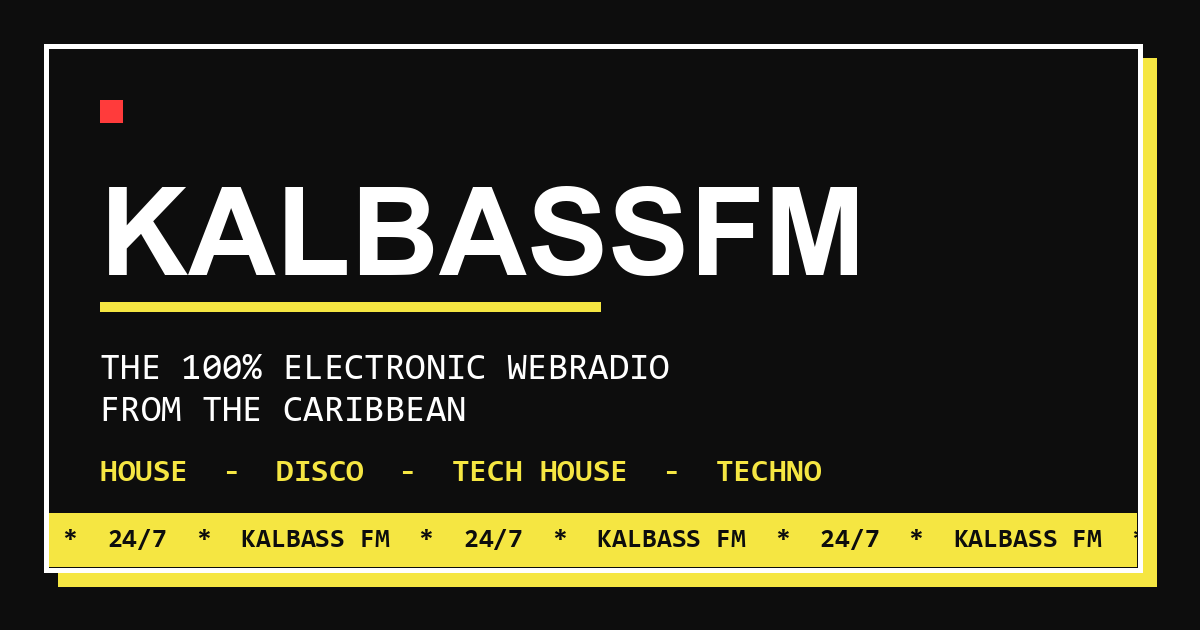
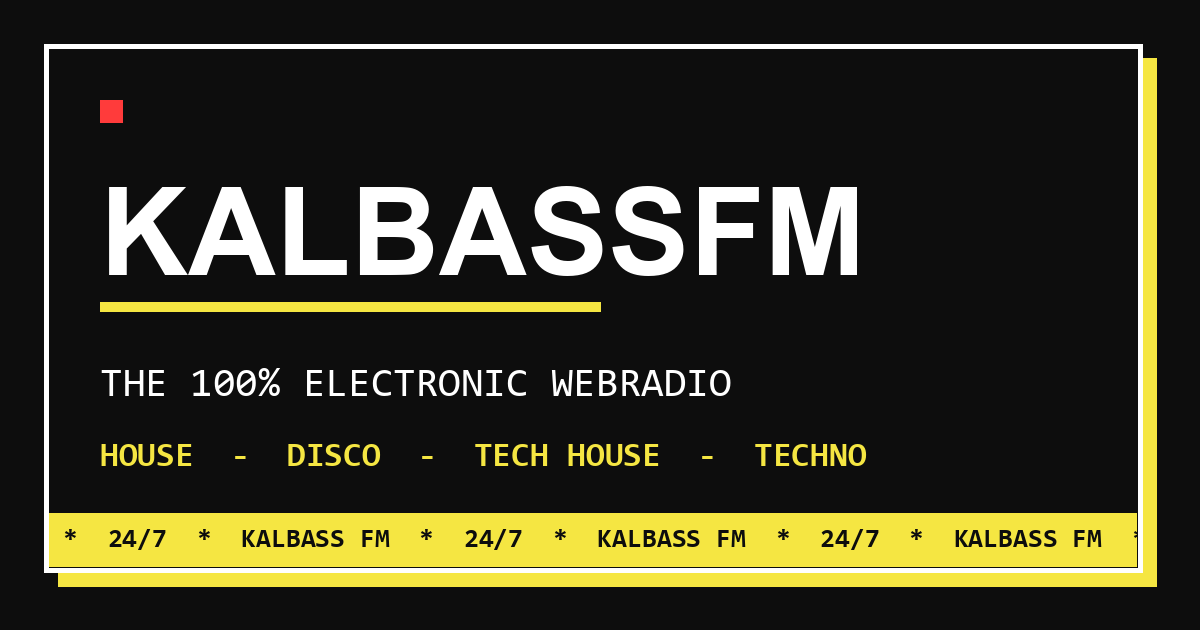
chore: retire les mentions d'origine geographique de la station
La station se presente desormais uniquement par sa musique. Touche le titre
de la page, la meta description, les cartes Open Graph / Twitter, le
manifest PWA, le libelle du pied de page, le texte de partage d'un morceau,
le repli Media Session, et le prompt systeme de /ask (le bot proposait des
messages "matching a light Caribbean tone").

og-image.png est refaite sans la ligne "FROM THE CARIBBEAN", avec les
espacements rebalances : une ligne d'accroche en moins laissait un vide sous
les genres. og:image et twitter:image passent en ?v=3 pour que les
plateformes re-scrapent.

Deux 🌴 subsistent volontairement dans index.html : le creneau "Trade Winds"
de la grille (13h-17h) et le palier de streak a 3 jours. Ni l'un ni l'autre
n'affirme d'ou emet la station, et renommer un creneau toucherait aussi les
playlists AzuraCast et la grille du README — c'est une decision separee.

diff --git a/index.html b/index.html
@@ -3,20 +3,20 @@
 <head>
   <meta charset="UTF-8">
   <meta name="viewport" content="width=device-width, initial-scale=1.0, viewport-fit=cover">
-  <title>KALBASSFM — Caribbean FM</title>
-  <meta name="description" content="KALBASS FM — the 100% electronic webradio from the Caribbean. House, disco, tech house, techno. 24/7.">
+  <title>KALBASSFM — Electronic Webradio</title>
+  <meta name="description" content="KALBASS FM — the 100% electronic webradio. House, disco, tech house, techno. 24/7.">
   <meta property="og:type" content="website">
   <meta property="og:site_name" content="KALBASS FM">
-  <meta property="og:title" content="KALBASS FM — The 100% electronic webradio from the Caribbean">
-  <meta property="og:description" content="House · Disco · Tech House · Techno — live 24/7. Press play. 🌴🎧">
+  <meta property="og:title" content="KALBASS FM — The 100% electronic webradio">
+  <meta property="og:description" content="House · Disco · Tech House · Techno — live 24/7. Press play. 🎧">
   <meta property="og:url" content="https://kalbassfm-player.vercel.app/">
-  <meta property="og:image" content="https://kalbassfm-player.vercel.app/og-image.png?v=2">
+  <meta property="og:image" content="https://kalbassfm-player.vercel.app/og-image.png?v=3">
   <meta property="og:image:width" content="1200">
   <meta property="og:image:height" content="630">
   <meta name="twitter:card" content="summary_large_image">
-  <meta name="twitter:title" content="KALBASS FM — The 100% electronic webradio from the Caribbean">
+  <meta name="twitter:title" content="KALBASS FM — The 100% electronic webradio">
   <meta name="twitter:description" content="House · Disco · Tech House · Techno — live 24/7.">
-  <meta name="twitter:image" content="https://kalbassfm-player.vercel.app/og-image.png?v=2">
+  <meta name="twitter:image" content="https://kalbassfm-player.vercel.app/og-image.png?v=3">
   <meta name="theme-color" content="#0D0D0D">
   <link rel="manifest" href="/manifest.webmanifest">
   <link rel="apple-touch-icon" href="/icon-192.png">
@@ -1442,7 +1442,7 @@
     </div>
 
     <div class="footer">
-      <span class="footer-text">// CARIBBEAN FM</span>
+      <span class="footer-text">// 100% ELECTRONIC</span>
       <div class="footer-status">
         <span class="logo-dot" style="width:5px;height:5px;" aria-hidden="true"></span>
         <span id="footerStatus">STANDBY</span>
@@ -1728,7 +1728,7 @@
   const nickNote    = document.getElementById('nickNote');
 
   document.getElementById('stationName').textContent = CONFIG.stationName;
-  document.title = CONFIG.stationName + ' — Caribbean FM';
+  document.title = CONFIG.stationName + ' — Electronic Webradio';
   audio.volume = parseFloat(volSlider.value);
 
   let current = { title: '', artist: '', art: '', songId: '' };
@@ -1895,7 +1895,7 @@
     const art = current.art;
     navigator.mediaSession.metadata = new MediaMetadata({
       title: current.title || 'KALBASS FM',
-      artist: current.artist || 'The Caribbean electronic webradio',
+      artist: current.artist || 'The 100% electronic webradio',
       album: 'KALBASS FM',
       artwork: art ? [
         { src: art, sizes: '256x256', type: 'image/jpeg' },
@@ -1919,7 +1919,7 @@
   }
   shareBtn.addEventListener('click', async () => {
     const label = current.title ? `${current.artist} – ${current.title}` : 'KALBASS FM';
-    const text = `🎧 Listening to ${label} on KALBASS FM — the 100% electronic webradio from the Caribbean!`;
+    const text = `🎧 Listening to ${label} on KALBASS FM — the 100% electronic webradio!`;
     const url = 'https://kalbassfm-player.vercel.app/';
     if (navigator.share) {
       try { await navigator.share({ title: 'KALBASS FM', text, url }); } catch {}

diff --git a/api/telegram.js b/api/telegram.js
@@ -923,12 +923,12 @@ async function audienceText() {
 
 /* ---- Claude (brainstorm admin : /ask) ---- */
 const CLAUDE_SYSTEM_PROMPT =
-  "You help run KALBASSFM, a 100% electronic webradio from the Caribbean. " +
+  "You help run KALBASSFM, a 100% electronic webradio. " +
   "The admin messages you from Telegram for quick brainstorming — drafting a chat " +
   "pin announcement, ideas to animate the live chat, small engagement ideas, or " +
   "general help. When asked to draft a pin message, give exactly 3 short numbered " +
   "options, each under 200 characters (they get pasted directly after \"/pin \"), " +
-  "in English, matching a light Caribbean/electronic-music tone. For anything else, " +
+  "in English, matching a light electronic-music tone. For anything else, " +
   "give a few concise, actionable suggestions. Keep replies short and scannable — " +
   "this is read on a phone inside Telegram, not a long essay.";
 

diff --git a/sw.js b/sw.js
@@ -2,7 +2,7 @@
    Network-first pour la navigation (les mises à jour passent toujours),
    cache seulement la coquille + icônes pour l'installation PWA / mode hors-ligne.
    Ne met JAMAIS en cache le flux audio ni l'API now-playing. */
-const V = 'kfm-v22'; // reseaux sociaux DJ + retrait du drapeau + nouvelle vignette OG
+const V = 'kfm-v23'; // retrait des mentions d'origine geographique + vignette OG refaite
 const SHELL = ['/', '/index.html', '/icon-192.png', '/icon-512.png', '/manifest.webmanifest'];
 
 self.addEventListener('install', (e) => {

diff --git a/tools/make_og_image.py b/tools/make_og_image.py
@@ -10,8 +10,8 @@ Format impose par Open Graph : 1200x630 (ratio 1.91:1). Les plateformes
 recadrent souvent les bords, donc rien d'important ne touche la marge.
 
 Le texte est integralement en anglais, comme le player et les annuaires ou la
-station est reference. Pas de drapeau : la station diffuse depuis la Caraibe
-mais s'adresse a une audience internationale.
+station est referencee. Aucune mention d'origine geographique ni de drapeau :
+la station se presente uniquement par sa musique.
 
 Polices : Space Grotesk / Space Mono sont celles du player, mais elles ne sont
 pas installees par defaut sous Windows. On les utilise si elles sont presentes
@@ -89,18 +89,16 @@ def main():
 
     # ---- Barre d'accent sous le logo ----
     d.rectangle((x, y, x + 500, y + 9), fill=ACCENT)
-    y += 9 + 40
+    y += 9 + 54
 
     # ---- Accroche ----
-    f_tag = mono(37)
-    for line in ("THE 100% ELECTRONIC WEBRADIO", "FROM THE CARIBBEAN"):
-        d.text((x, y), line, font=f_tag, fill=FG)
-        y += d.textbbox((0, 0), line, font=f_tag)[3] + 14
-
-    y += 22
+    f_tag = mono(41)
+    tagline = "THE 100% ELECTRONIC WEBRADIO"
+    d.text((x, y), tagline, font=f_tag, fill=FG)
+    y += d.textbbox((0, 0), tagline, font=f_tag)[3] + 44
 
     # ---- Genres ----
-    f_gen = mono_b(32)
+    f_gen = mono_b(34)
     d.text((x, y), "HOUSE  -  DISCO  -  TECH HOUSE  -  TECHNO", font=f_gen, fill=ACCENT)
 
     # ---- Bandeau defilant, colle au bord interieur bas du cadre ----

diff --git a/README.md b/README.md
@@ -1,6 +1,6 @@
 # KALBASSFM — Web Player
 
-Player web pour **KALBASSFM**, webradio caribéenne diffusant électro, disco, funk et house 24/7.
+Player web pour **KALBASSFM**, webradio 100% électronique diffusant électro, disco, funk et house 24/7.
 
 🎧 **Live** → [kalbassfm-player.vercel.app](https://kalbassfm-player.vercel.app/)
 📡 **Stream** → `kalbassfm.duckdns.org` (Icecast / AzuraCast)
